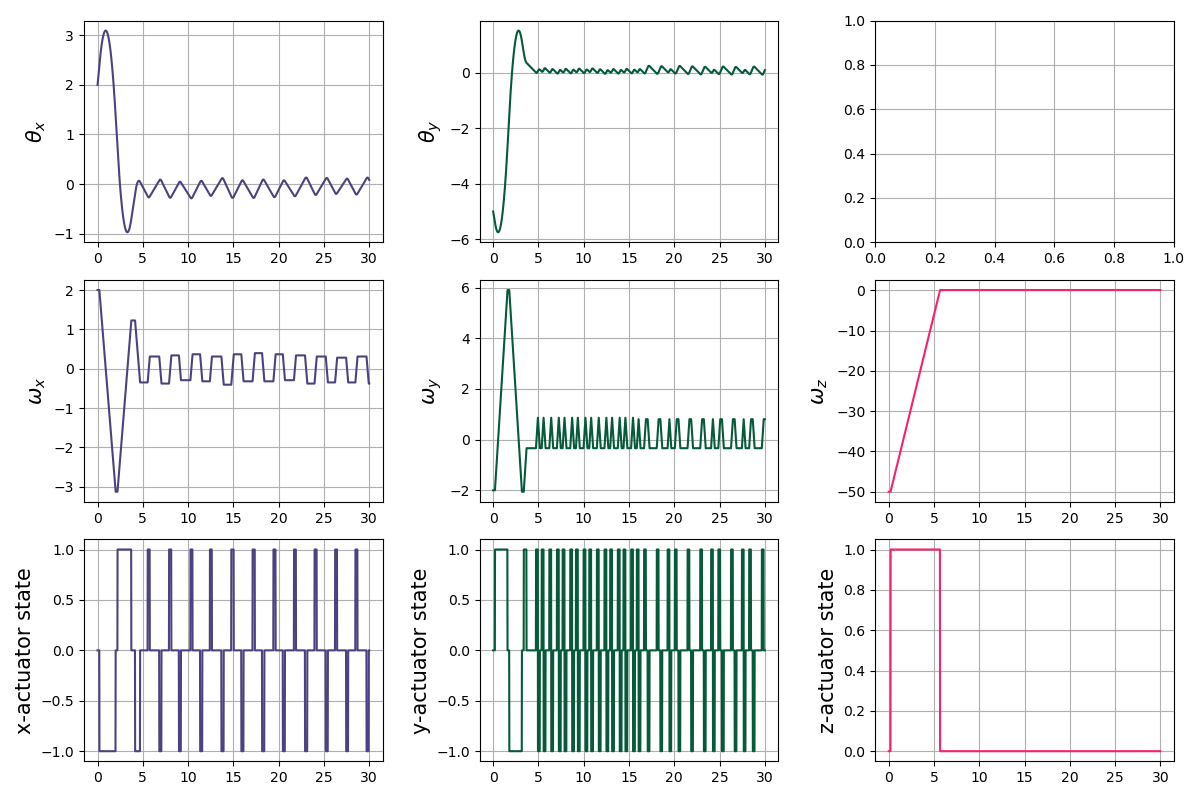
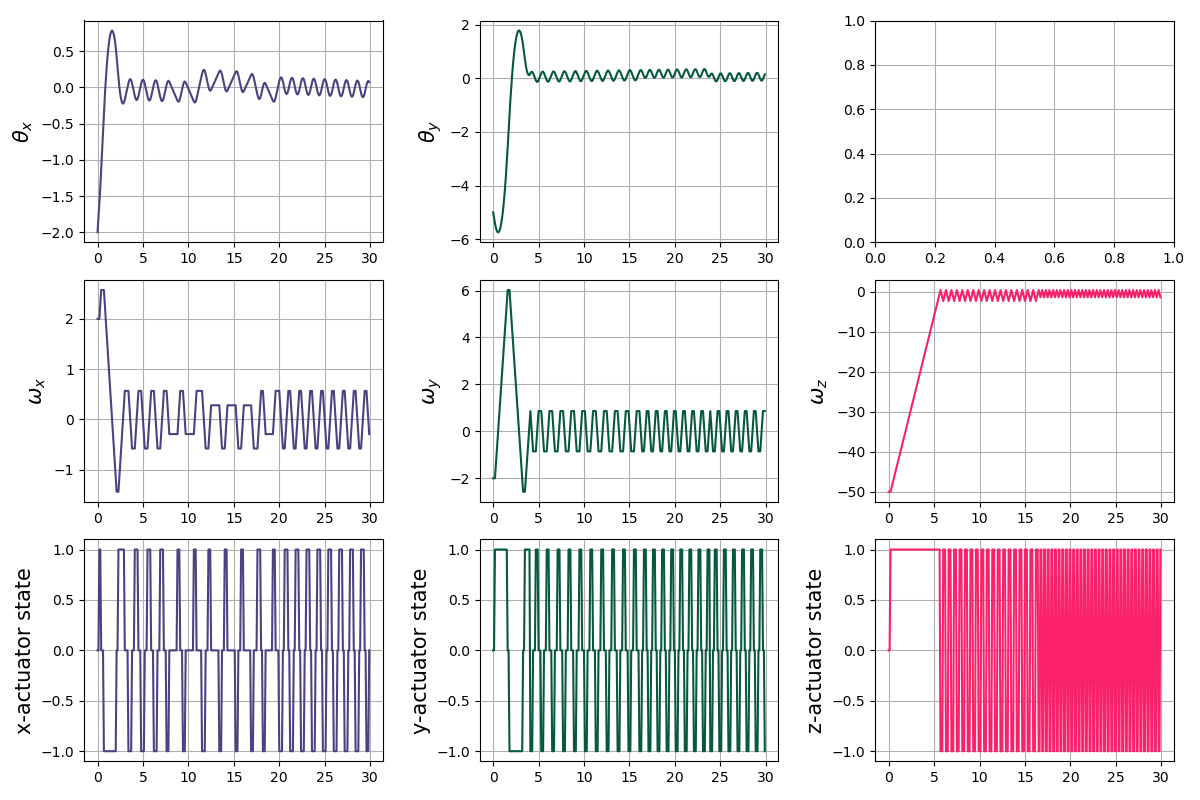
main.cpp outputs commands in a loop

diff --git a/controller/RCS_PID/cpp/main.cpp b/controller/RCS_PID/cpp/main.cpp
@@ -2,13 +2,14 @@
 #include "PID.h"
 #include "Actuator.h"
 #include <chrono>
+#include <iostream>
+#include <thread>
 
 using namespace std;
 
 const float solenoid_thrust = 20; // newtons
 const float min_act_time = 0.2; // seconds
-const double dt = 0.01;
-
+const int dt = 100; // miliseconds
 
 PID x_controller(40,1,20);
 PID y_controller(40,1,20);
@@ -22,14 +23,9 @@ struct vec3 {
     double x, y, z;
 };
 
-auto getTime(){
-    auto t = chrono::high_resolution_clock::now();
-    return t;
-}
-
 vec3 getAttitude() { // FILLER FUNCTION
     
-    vec3 state_vec = {0, 0, 0}; // theta_x, theta_y, omega_z FROM SENSORS
+    vec3 state_vec = {-0.2, 0.5, 1.0}; // theta_x, theta_y, omega_z FROM SENSORS
 
     return state_vec; //address of state_vector returned
 }
@@ -42,23 +38,34 @@ vec3 getCommands(vec3 state_vec, float dt) {
         return commands; //address of commands
     }
 
-int setStates(vec3 cmds) { // Use a method to send signal to solenoids
+int setStates(double t, vec3 cmds) { // Use a method to send signal to solenoids
         x_act.state = x_act.setState(t, cmds.x);
         y_act.state = y_act.setState(t, cmds.y);
         z_act.state = z_act.setState(t, cmds.z);
         return 0;
 }
 
-auto t_last = std::chrono::high_resolution_clock::now();
+double t = 0;
 
 int main() {
-
     while (true){
         vec3 state_vector = getAttitude();
         vec3 cmd = getCommands(state_vector, dt);
-        setStates(cmd);
-        t_last = std::chrono::high_resolution_clock::now();
+        setStates(t, cmd);
+        cout << t << "\tstates: " << state_vector.x <<", "<< state_vector.y<<", "<< state_vector.z;
+        cout << "\tcommands: " << cmd.x<<", "<< cmd.y<<", "<< cmd.z;
+        cout << "\tactuator: " << x_act.state << "\n";
+        this_thread::sleep_for(chrono::milliseconds(dt));
+        t += double(dt)/1000;
     }
-
     return 0;
+
+    // double x_ang = -0.0349;
+    // float x_cmd = x_controller.compute(x_ang, dt);
+    // x_act.setState(t, x_cmd);
+    // cout << t << "\tx-angle: " << x_ang;
+    // cout << "\tcommand: " << x_cmd;
+    // cout << "\tactuator: " << x_act.state << "\n";
+    // return 0;
+
 }

diff --git a/controller/RCS_PID/python/3DoF_simulation.py b/controller/RCS_PID/python/3DoF_simulation.py
@@ -9,15 +9,15 @@ coeff_rad_to_deg = 360/(2*np.pi)
 coeff_deg_to_rad = (2*np.pi)/360
 
 # --INITIALIZE STATE--
-initial_state = {'thX': 2 *coeff_deg_to_rad,
-                 'wX': 2 *coeff_deg_to_rad,
-                 'thY': -5 *coeff_deg_to_rad,
-                 'wY': -2 *coeff_deg_to_rad,
-                 'wZ': -50 *coeff_deg_to_rad,}
+initial_state = {'thX': -2 *coeff_deg_to_rad,
+                 'wX': 0 *coeff_deg_to_rad,
+                 'thY': 0 *coeff_deg_to_rad,
+                 'wY': 0 *coeff_deg_to_rad,
+                 'wZ': 0 *coeff_deg_to_rad,}
 # --------------------
 
 # --SIM PARAMS-- (units in N, m, kg, s, etc.) 
-dt = 0.01 
+dt = 0.1 
 mmoiX = 2000
 mmoiZ = 50
 rz = 5 # vertical distance from COM to thruster
@@ -94,8 +94,8 @@ while sim_time <= time_limit:
     sim_time += dt
     i+=1
 
-# for s in debug[0:1000]:
-#     print(s[0], "\tangle: ", s[1], "\tact.: ", s[2], "\tcmd: ", s[3] , "\ttime on: ", s[4], "\tontime: ", s[5])
+for s in debug[0:1000]:
+    print(s[0], "\tangle: ", s[1], "\tact.: ", s[2], "\tcmd: ", s[3] , "\ttime on: ", s[4], "\tontime: ", s[5])
 
 print("Total Impulse: ", round(total_impulse,3), " N-s")
 
@@ -129,6 +129,6 @@ for i in range(len(ax)):
     for j in range(len(ax[0])):
         ax[i][j].grid()
 plt.tight_layout(h_pad=1, w_pad=2)
-fig.savefig("controller/RCS_PID/python/figs/3DoF_States")
+# fig.savefig("controller/RCS_PID/python/figs/3DoF_States")
 plt.show()
 # -----------------------------------

diff --git a/controller/RCS_PID/python/Actuator.py b/controller/RCS_PID/python/Actuator.py
@@ -33,8 +33,12 @@ class Actuator():
             commanded time is how long the commanded state should be held in seconds
         '''
         self.ontime = time - self.time_switch # track ontime
-        cmd_state = int( cmd / abs(cmd) )# either 1 or -1
         
+        if cmd != 0:
+            cmd_state = int( cmd / abs(cmd) )# either 1 or -1
+        else:
+            cmd_state = 0
+
         if self.state != cmd_state and self.ontime >= self.min_act_time:
             self.ontime = 0 # reset ontime if a different command is sent
             self.time_switch = time # mark when solenoid state was switched

diff --git a/controller/RCS_PID/cpp/Actuator.cpp b/controller/RCS_PID/cpp/Actuator.cpp
@@ -12,8 +12,12 @@ Actuator::Actuator(float solenoid_thrust, float min_act_time){
 
 float Actuator::setState(float current_time, float cmd){
     ontime = current_time - time_switch; // track ontime
-    int cmd_state = cmd / abs(cmd);// either 1 or -1
-    
+
+    int cmd_state = 0;
+    if (cmd != 0) {
+        cmd_state = cmd / abs(cmd);// either 1 or -1
+    }
+
     if (state != cmd_state && ontime >= min_act_time){
         ontime = 0; // reset ontime if a different command is sent
         time_switch = current_time; // mark when solenoid state was switched

diff --git a/controller/RCS_PID/cpp/Actuator.h b/controller/RCS_PID/cpp/Actuator.h
@@ -7,13 +7,12 @@ class Actuator{
         Actuator(float solenoid_thrust, float min_act_time);
         float setState(float current_time, float cmd);
         float state;
-        
+
     private:
         float thrust;
         float min_act_time;
         float time_switch;
         float ontime;
 };
-
 
 #endif //_Actuator_H_

diff --git a/controller/RCS_PID/cpp/PID.cpp b/controller/RCS_PID/cpp/PID.cpp
@@ -3,7 +3,7 @@
 PID::PID(float KP, float KI, float KD) {
     Kp = KP;
     Ki = KI;
-    Kd = Kd;
+    Kd = KD;
     error_last = 0;
     integral_error = 0;
 }
